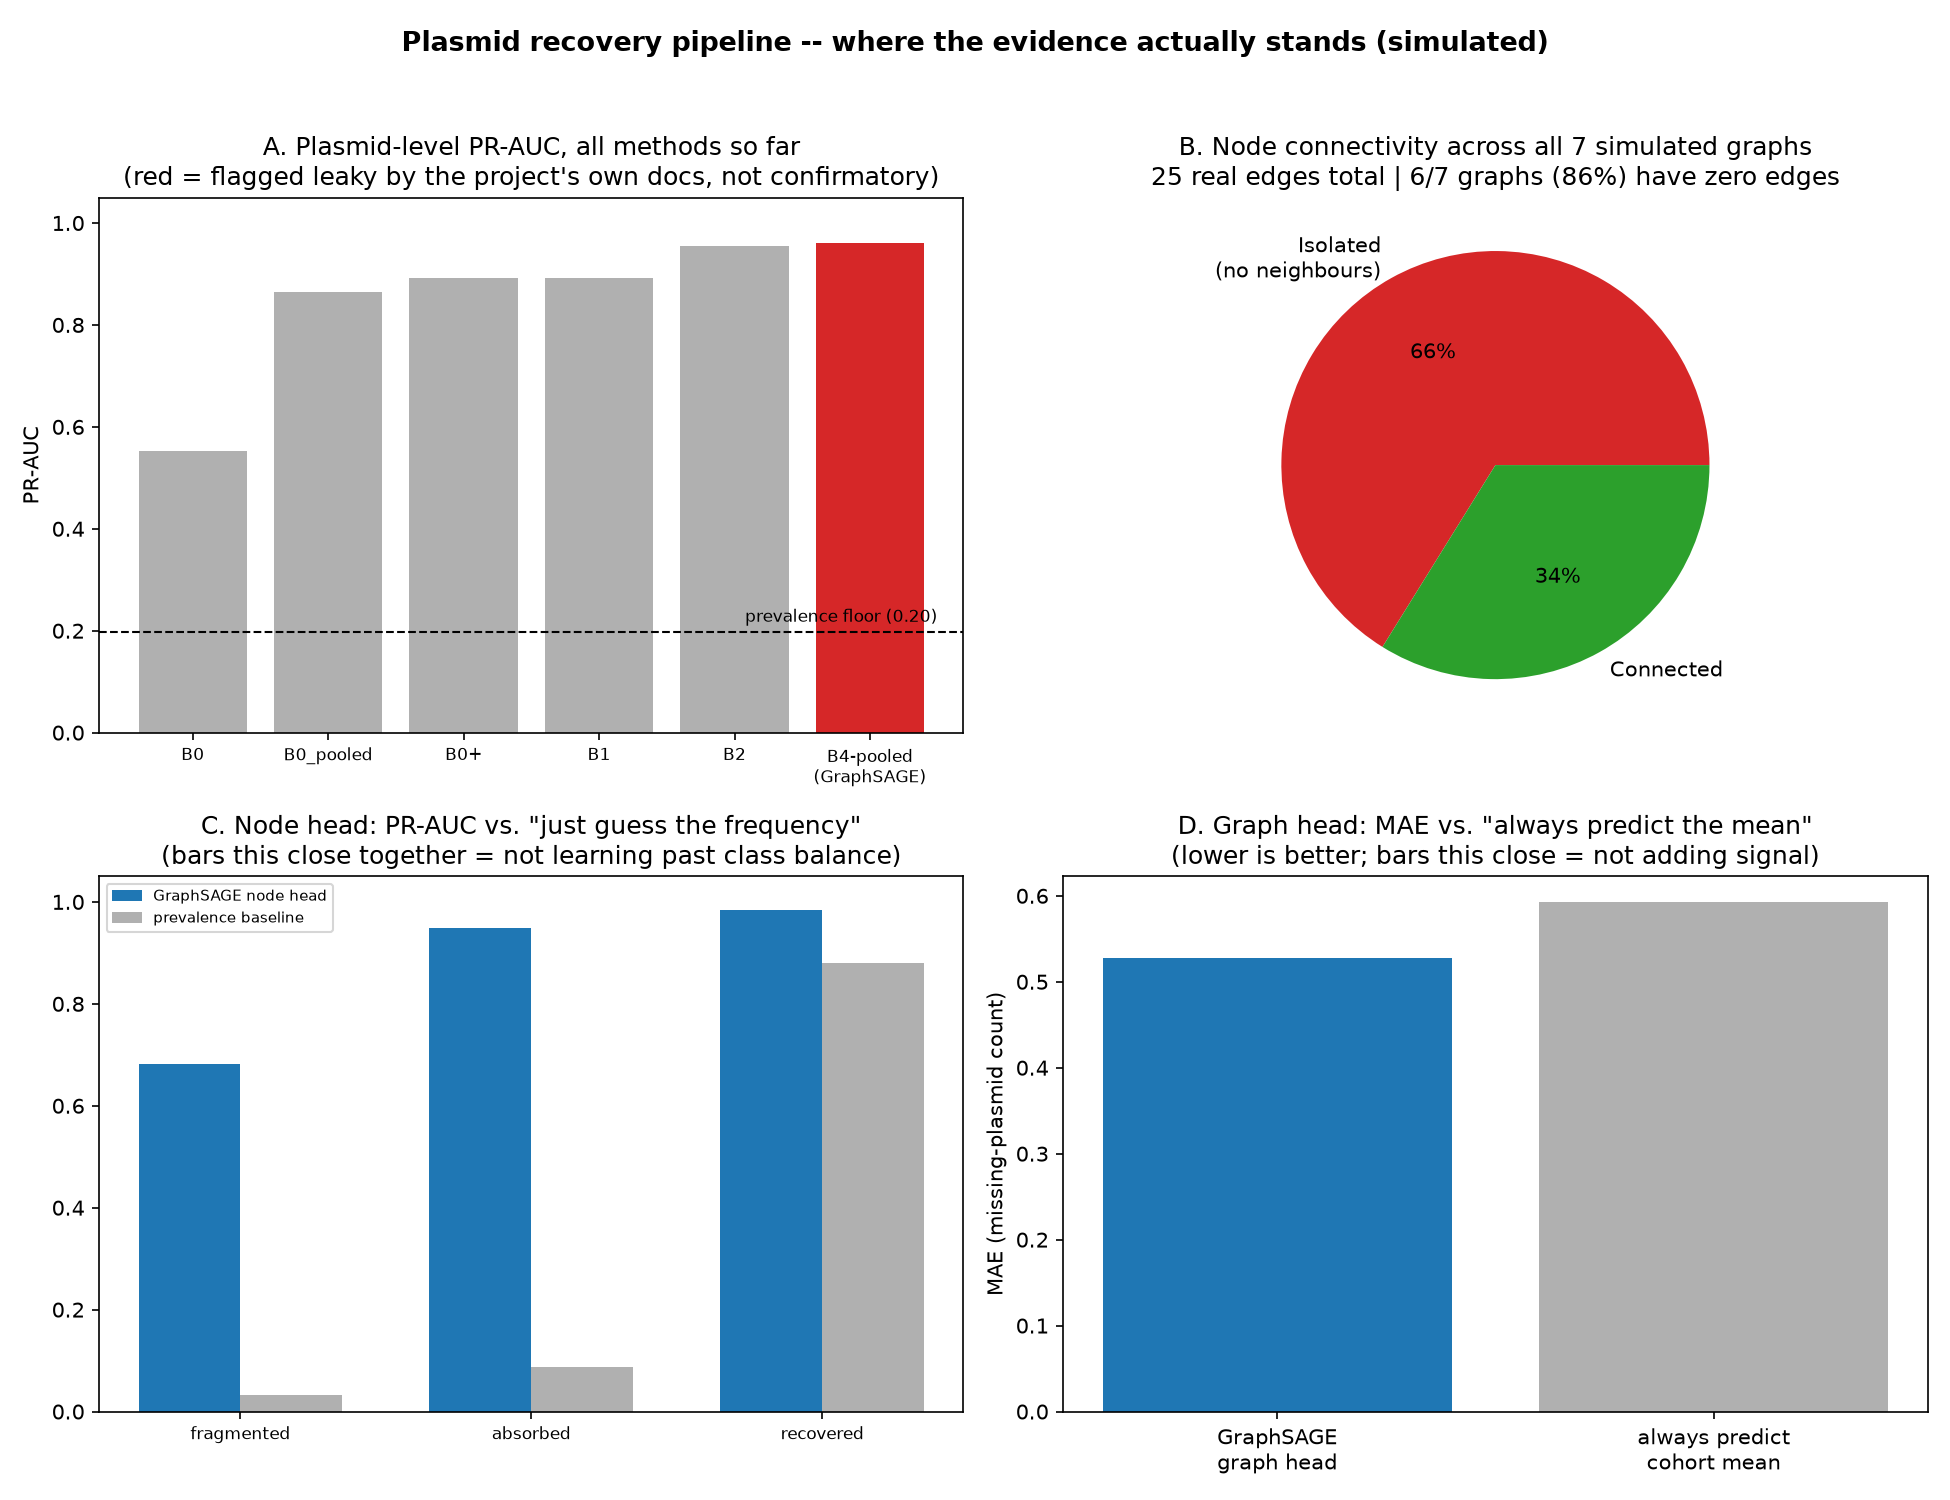
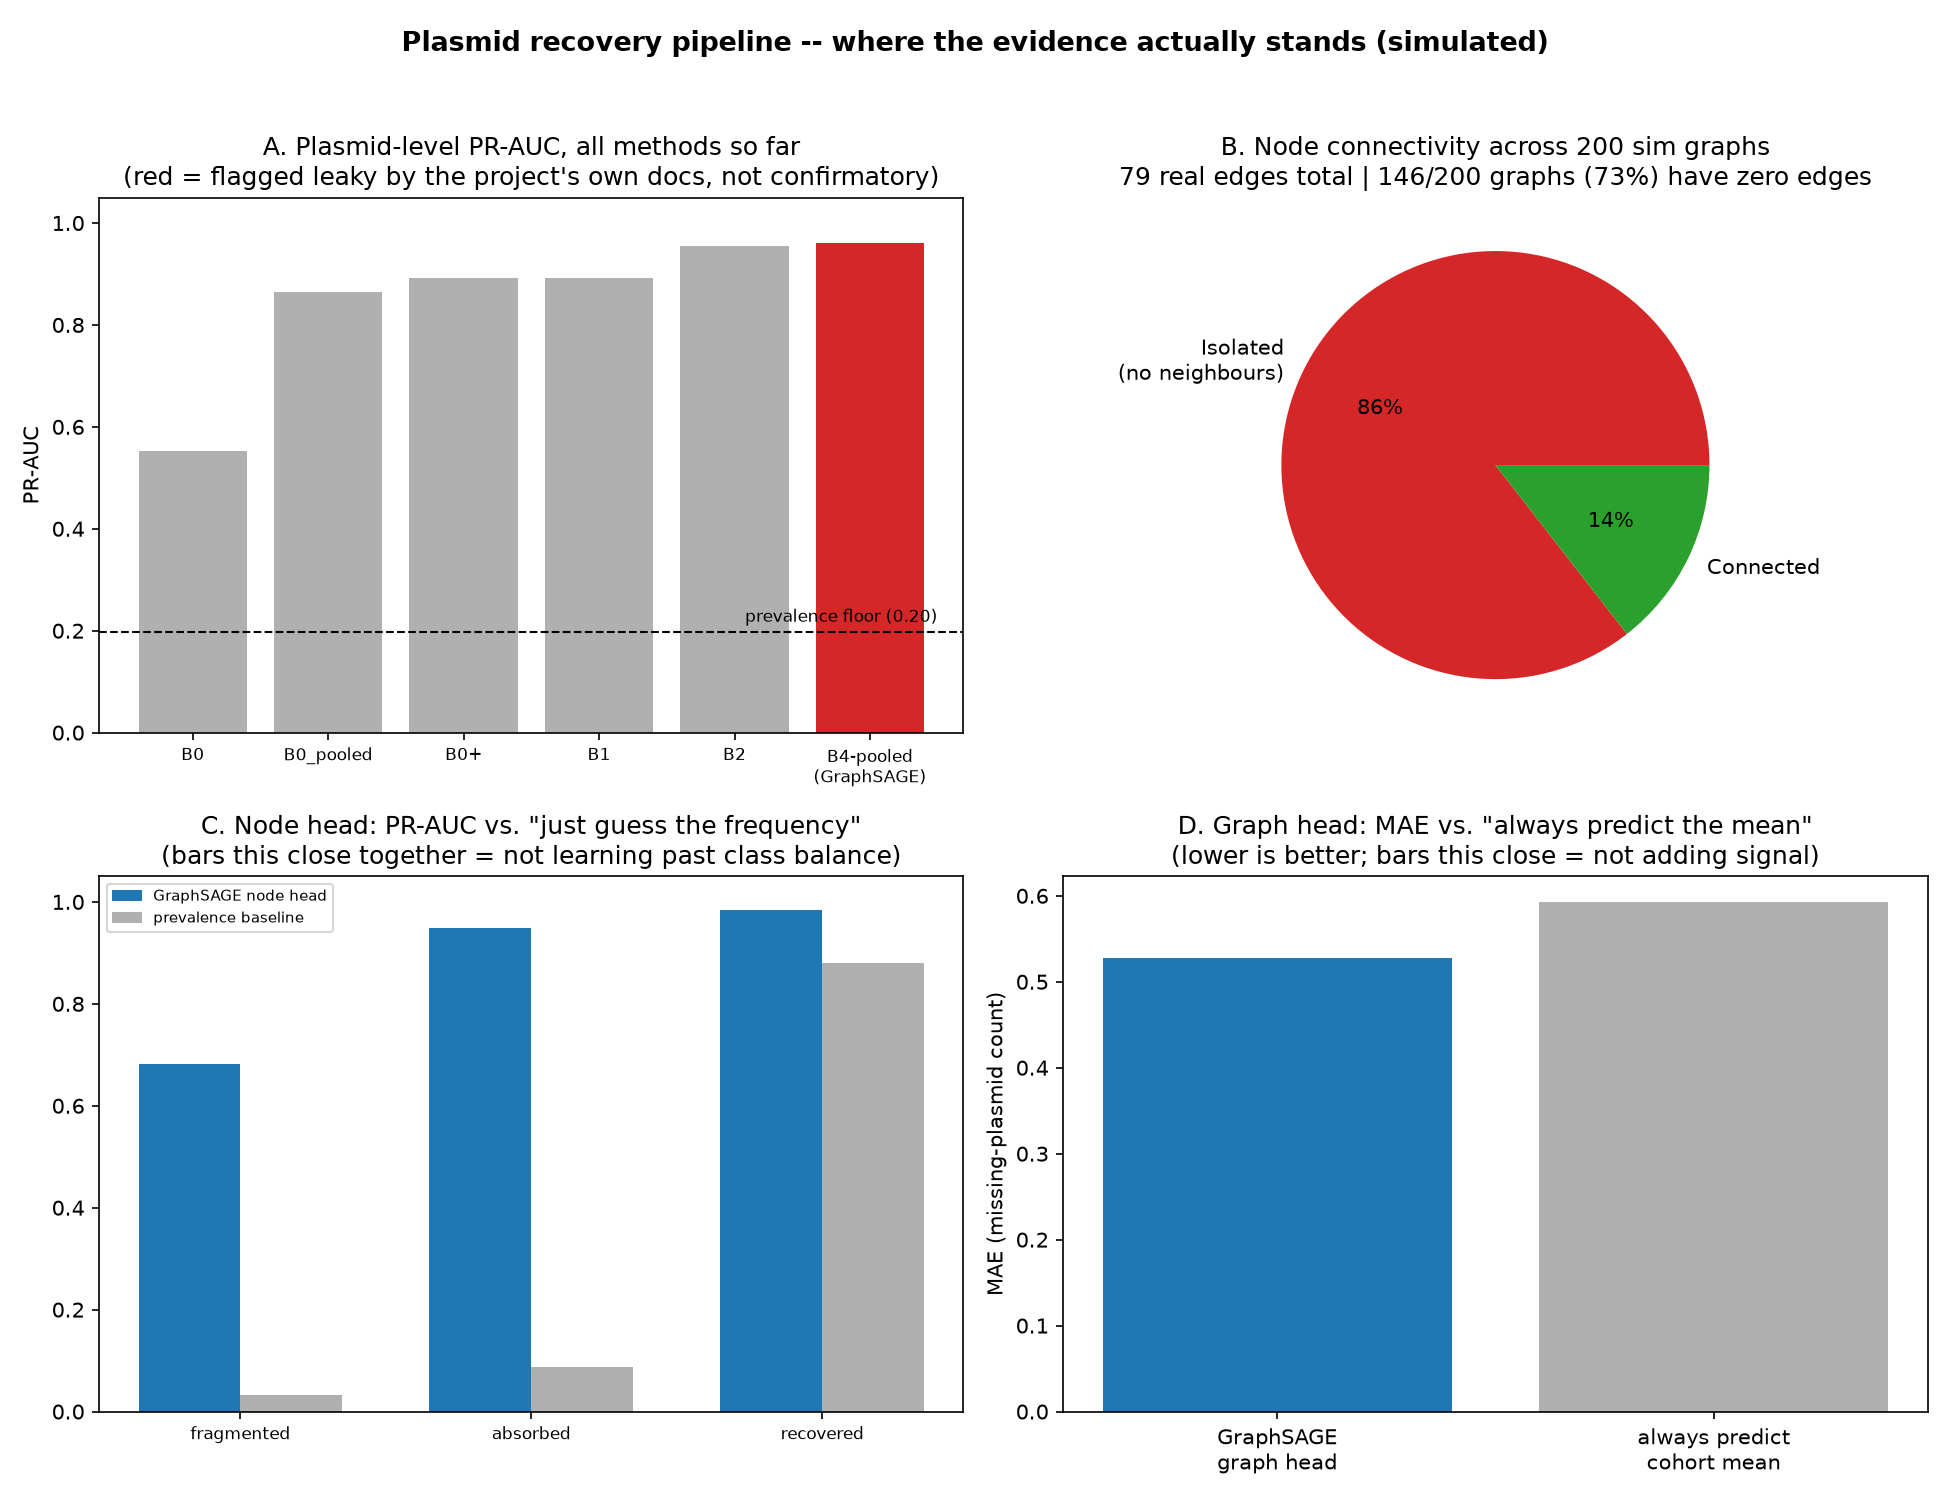
latest updates

diff --git a/scripts/16_diagnostic_plots.py b/scripts/16_diagnostic_plots.py
@@ -116,8 +116,14 @@ def plot_embedding(res, out_dir, suffix):
         print("skipping embedding plot -- too few nodes"); return
     try:
         import umap
-        reducer = umap.UMAP(random_state=20260812)
-        method = "UMAP"
+        n_neighbors = min(15, max(2, emb.shape[0] // 5))
+        # PATCHED: default n_neighbors=15 is ~20% of a 72-node dataset --
+        # far too large a fraction for data this small, and can force
+        # spurious global structure (e.g. one cluster wrongly pulled far
+        # from everything else). Scale down for small inputs, same
+        # principle already applied to the t-SNE fallback's perplexity.
+        reducer = umap.UMAP(random_state=20260812, n_neighbors=n_neighbors)
+        method = f"UMAP (n_neighbors={n_neighbors})"
     except ImportError:
         reducer = TSNE(n_components=2, random_state=20260812,
                         perplexity=min(30, max(2, emb.shape[0] // 3)))
@@ -225,19 +231,29 @@ def plot_feature_importance(mod, dataset, model, out_dir, suffix, device="cpu"):
         return float(np.mean(aps)) if aps else float("nan")
 
     rng = np.random.default_rng(20260812)
+    # PATCHED: a single permutation draw on n=26 examples is noisy enough to
+    # show a feature as "harmful" (negative drop) purely by chance. Average
+    # over several draws so the bars reflect real importance, not one
+    # unlucky/lucky shuffle.
+    n_repeats = 8
     baseline = score_with_permutation(None, rng)
-    drops = {}
-    for fi, fname in enumerate(FEATS):
-        shuffled = score_with_permutation(fi, rng)
-        drops[fname] = baseline - shuffled
+    drops = {fname: [] for fname in FEATS}
+    for _ in range(n_repeats):
+        for fi, fname in enumerate(FEATS):
+            shuffled = score_with_permutation(fi, rng)
+            drops[fname].append(baseline - shuffled)
+    drop_mean = {k: float(np.mean(v)) for k, v in drops.items()}
+    drop_std = {k: float(np.std(v)) for k, v in drops.items()}
 
     fig, ax = plt.subplots(figsize=(8, 5))
-    names = sorted(drops, key=lambda k: drops[k])
-    ax.barh(names, [drops[n] for n in names], color="#1f77b4")
+    names = sorted(drop_mean, key=lambda k: drop_mean[k])
+    ax.barh(names, [drop_mean[n] for n in names],
+            xerr=[drop_std[n] for n in names], capsize=3, color="#1f77b4")
     ax.axvline(0, c="k", lw=1)
-    ax.set_xlabel("Mean node-head PR-AUC drop when this feature is shuffled")
+    ax.set_xlabel(f"Mean PR-AUC drop when shuffled ({n_repeats} repeats, error bars = std)")
     ax.set_title(f"Permutation feature importance {suffix}\n"
-                 f"(baseline mean PR-AUC = {baseline:.3f})")
+                 f"(baseline mean PR-AUC = {baseline:.3f}, n={len(units)} examples -- "
+                 f"treat bars smaller than their error bar as noise, not signal)")
     fig.tight_layout()
     p = os.path.join(out_dir, "4_feature_importance.png")
     fig.savefig(p, dpi=150); plt.close(fig)
@@ -273,12 +289,52 @@ def plot_feature_importance(mod, dataset, model, out_dir, suffix, device="cpu"):
 
         n_bg = min(20, len(X))
         explainer = shap.KernelExplainer(predict_fn, X[:n_bg])
-        shap_values = explainer.shap_values(X[:n_bg], nsamples=100)
-        fig = plt.figure(figsize=(8, 6))
-        shap.summary_plot(shap_values, X[:n_bg], feature_names=FEATS, show=False)
-        p = os.path.join(out_dir, "4b_shap_summary.png")
-        fig.savefig(p, dpi=150, bbox_inches="tight"); plt.close(fig)
-        print("wrote", p, "(isolated-node approximation -- see code comment)")
+        raw = explainer.shap_values(X[:n_bg], nsamples=100)
+
+        # PATCHED AGAIN: different shap versions return multi-class output
+        # differently -- older versions: a list of 3 arrays, each
+        # (n_samples, n_features). Newer versions: one ndarray, shape
+        # (n_samples, n_features, n_classes). Guessing which one silently
+        # produced only one (wrong) plot last time. Detect explicitly and
+        # normalize to a plain list of clean 2D arrays before doing anything
+        # else, so the rest of this code never has to guess again.
+        print(f"shap raw output: type={type(raw)}, "
+              f"shape={getattr(raw, 'shape', [getattr(a, 'shape', '?') for a in raw] if isinstance(raw, list) else '?')}")
+        if isinstance(raw, list):
+            per_class = raw                                   # old convention
+        elif isinstance(raw, np.ndarray) and raw.ndim == 3:
+            per_class = [raw[:, :, c] for c in range(raw.shape[2])]  # new convention
+        elif isinstance(raw, np.ndarray) and raw.ndim == 2:
+            per_class = [raw]                                 # single-output, unexpected here but handled
+        else:
+            per_class = None
+
+        if per_class is None:
+            print(f"Unrecognized shap output shape -- skipping SHAP plots. "
+                  f"Paste the 'shap raw output' line above back to me.")
+        else:
+            for ci, cname in enumerate(NODE_CLASSES):
+                if ci >= len(per_class):
+                    continue
+                sv = per_class[ci]
+                if sv.ndim != 2 or sv.shape[1] != len(FEATS):
+                    print(f"skipping {cname}: unexpected shape {sv.shape}")
+                    continue
+                shap.summary_plot(sv, X[:n_bg], feature_names=FEATS, show=False)
+                fig = plt.gcf()
+                p = os.path.join(out_dir, f"4b_shap_summary_{cname}.png")
+                fig.savefig(p, dpi=150, bbox_inches="tight")
+                plt.close(fig)
+                print("wrote", p)
+
+            if len(per_class) > 1:
+                shap.summary_plot(per_class, X[:n_bg], feature_names=FEATS,
+                                   plot_type="bar", class_names=NODE_CLASSES, show=False)
+                fig = plt.gcf()
+                p = os.path.join(out_dir, "4c_shap_summary_bar_all_classes.png")
+                fig.savefig(p, dpi=150, bbox_inches="tight")
+                plt.close(fig)
+                print("wrote", p)
     except ImportError:
         print("shap not installed (pip install shap) -- skipped SHAP summary "
               "plot, permutation importance above is the substitute.")
